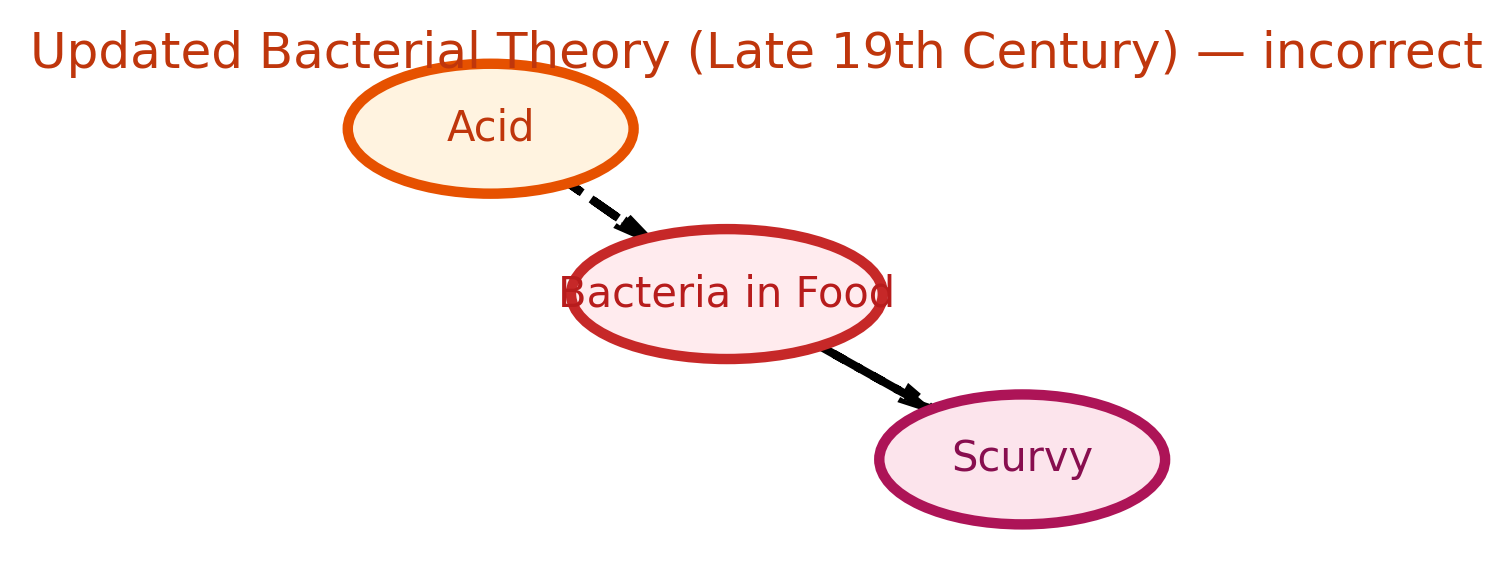
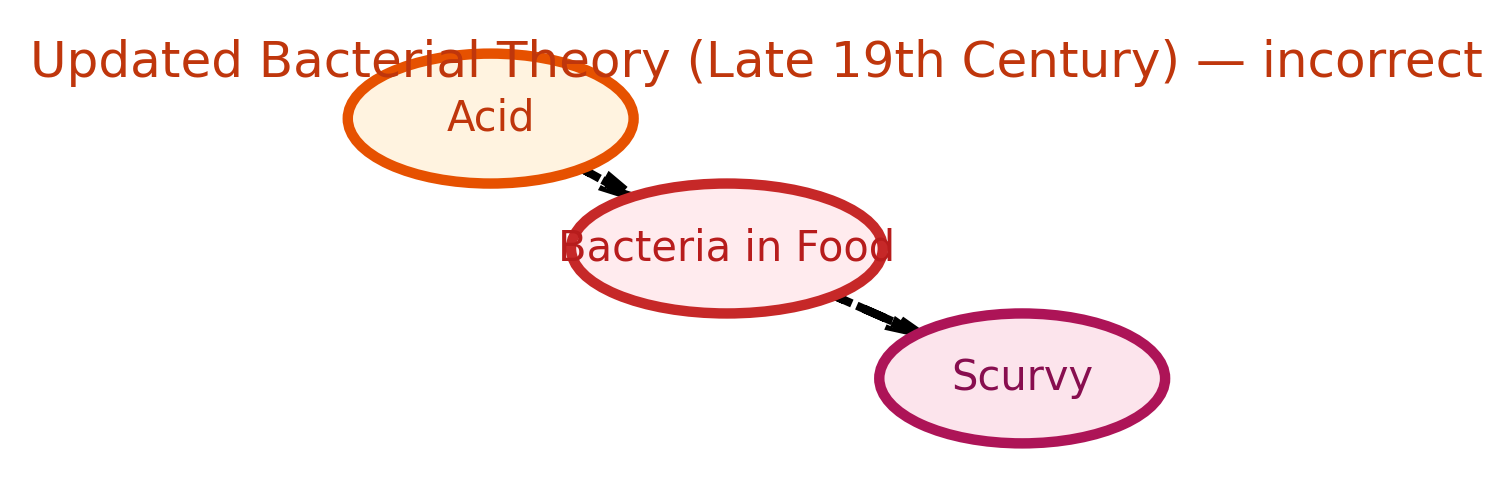
Placeholder

diff --git a/index.html b/index.html
@@ -92,10 +92,14 @@ ul.task-list li input[type="checkbox"] {
 <p>Over time, people came to believe it was the acid in lemons that killed bacteria which was causing scurvy. This led to lemons being replaced by limes (cheaper but less Vitamin C) or just using acids like vinegar, causing scurvy to return.</p>
 <p><img src="https://raw.githubusercontent.com/flyaflya/persuasive/8aaffd0a3c967d0a26f506232f998130847be3e8/images/scurvy.png" class="img-fluid"></p>
 <div id="cell-dag-2-misguided" class="cell" data-execution_count="2">
+<div class="cell-output cell-output-stderr">
+<pre><code>C:\Users\smolo\AppData\Local\Temp\ipykernel_1208\3650958434.py:40: UserWarning: This figure includes Axes that are not compatible with tight_layout, so results might be incorrect.
+  plt.tight_layout()</code></pre>
+</div>
 <div class="cell-output cell-output-display">
 <div>
 <figure class="figure">
-<p><img src="index_files/figure-html/dag-2-misguided-output-1.png" id="dag-2-misguided" width="756" height="289" class="figure-img"></p>
+<p><img src="index_files/figure-html/dag-2-misguided-output-2.png" id="dag-2-misguided" width="756" height="248" class="figure-img"></p>
 </figure>
 </div>
 </div>
@@ -106,10 +110,14 @@ ul.task-list li input[type="checkbox"] {
 <p>In 1928, the true mechanism was discovered — it was Vitamin C (ascorbic acid) that prevented scurvy. This complete understanding finally explained why lemons worked and why the acid theory was wrong.</p>
 <p><img src="https://raw.githubusercontent.com/flyaflya/persuasive/main/images/scurvy3.png" class="img-fluid"></p>
 <div id="cell-dag-3-1928" class="cell" data-execution_count="3">
+<div class="cell-output cell-output-stderr">
+<pre><code>C:\Users\smolo\AppData\Local\Temp\ipykernel_1208\1839272718.py:40: UserWarning: This figure includes Axes that are not compatible with tight_layout, so results might be incorrect.
+  plt.tight_layout()</code></pre>
+</div>
 <div class="cell-output cell-output-display">
 <div>
 <figure class="figure">
-<p><img src="index_files/figure-html/dag-3-1928-output-1.png" id="dag-3-1928" width="462" height="118" class="figure-img"></p>
+<p><img src="index_files/figure-html/dag-3-1928-output-2.png" id="dag-3-1928" width="665" height="227" class="figure-img"></p>
 </figure>
 </div>
 </div>
